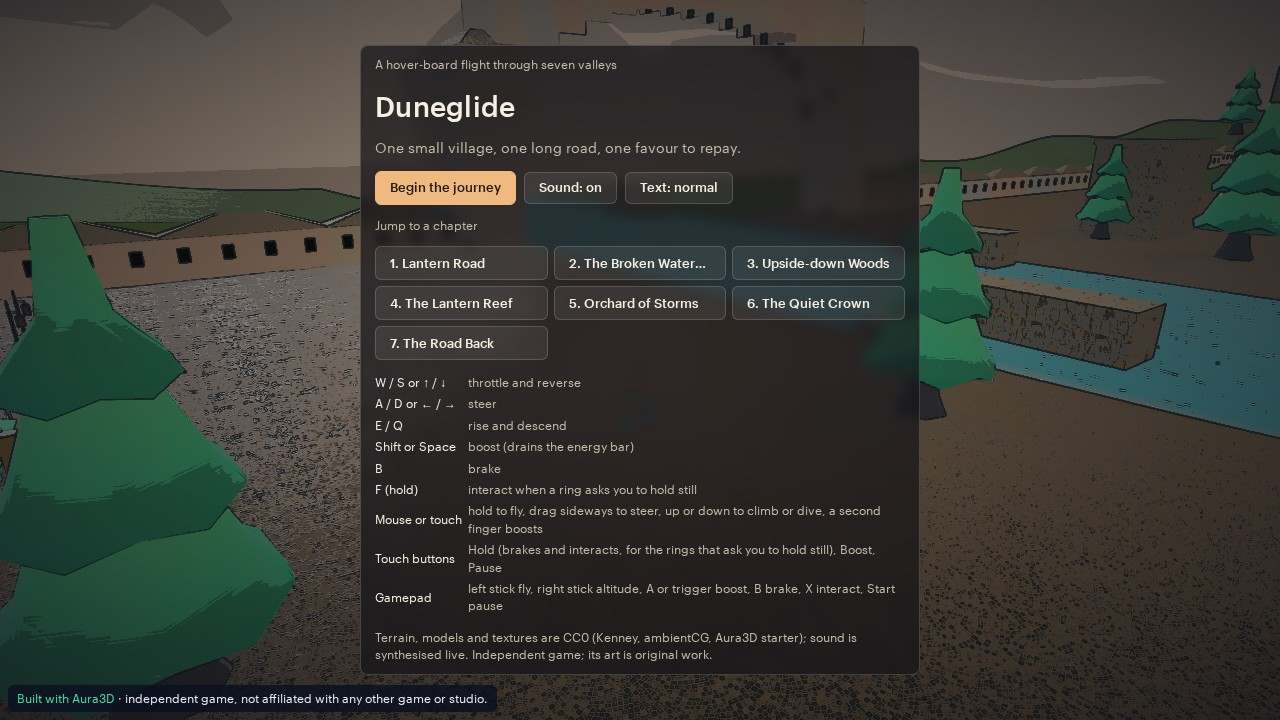
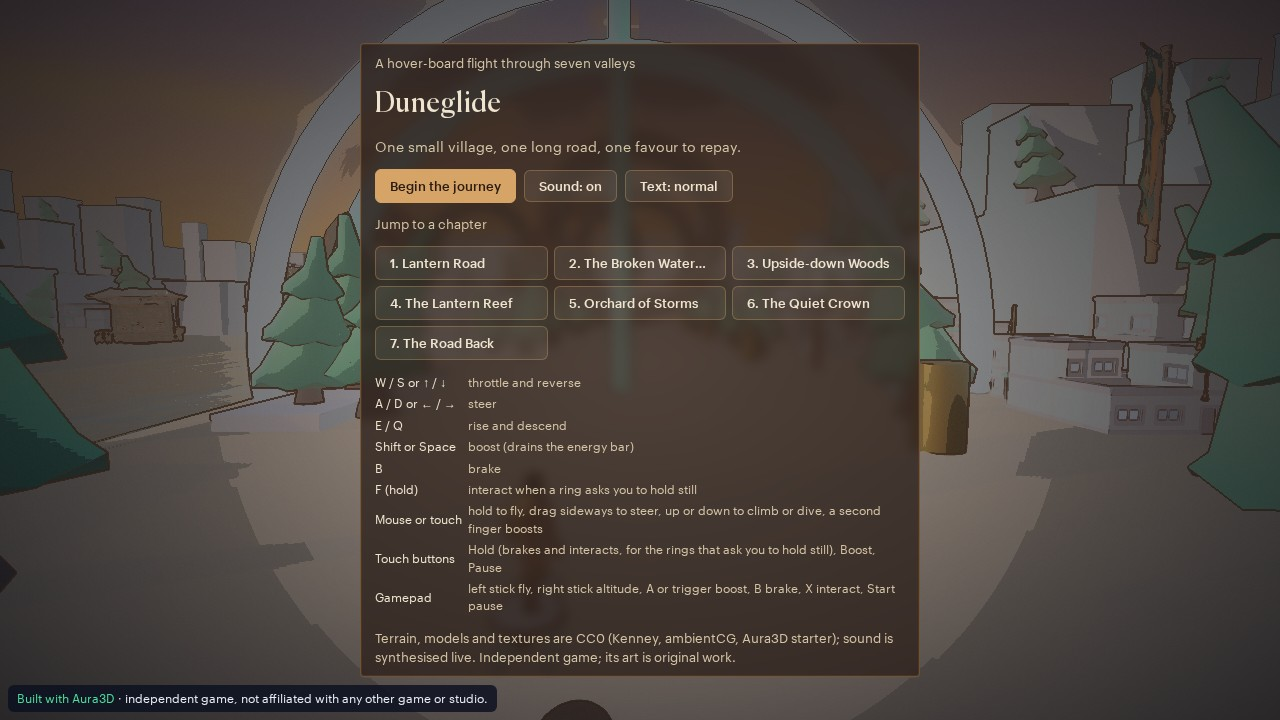
docs(silt-and-signal-port): phase 6 (4.7.4) lane report; title screens retaken with a lean g24-t test (one screenshot; g24-a timed out twice on software WebGL2), runs g24p6-r3 (GU47 g24)

diff --git a/tests/browser/audit-fix/silt-and-signal-port.spec.ts b/tests/browser/audit-fix/silt-and-signal-port.spec.ts
@@ -224,6 +224,26 @@ test.describe("g24 duneglide", () => {
     await ctx.close();
   });
 
+  /* ------------------------------------------------- g24-t: lean title frames (GU47 phase 6, one screenshot each) */
+  // The g24-a probe takes 10+ screenshots plus settle renders; on the software-GL runner every one costs a presented
+  // frame of the inked title (minutes each), so g24-a ran out of its hour twice (phase 3 and phase 6). g24-t waits for
+  // the title to load and settle on its own clock, then takes one full-page JPEG (HUD and title card included).
+  for (const [label, vp, file] of [
+    ["desktop", { width: 1280, height: 720 }, "title.1280x720"],
+    ["phone", { width: 390, height: 844, touch: true }, "title.390x844"]
+  ] as const) {
+    test(`g24-t title ${label}`, async ({ browser }) => {
+      const { ctx, page, ok } = await openPage(browser, `title-${label}`, at(""), vp);
+      if (ok) {
+        await page.waitForTimeout(90_000);
+        const full = await page.screenshot({ type: "jpeg", quality: 90, timeout: 1_800_000 });
+        meta(file, { kind: "shot", lean: true, diag: await diag(page).catch(() => null) });
+        chunked("G24_JPG", file, full);
+      }
+      await ctx.close();
+    });
+  }
+
   /* ---------------------------------------------------------------- g24-b: play states (RH-05, C4, C10, C13, C14) */
 
   for (const [label, w, h, touch] of [["desktop", 1280, 720, false], ["phone", 390, 844, true]] as const) {

diff --git a/docs/prds/game-upgrades-47/lanes/g24.md b/docs/prds/game-upgrades-47/lanes/g24.md
@@ -375,3 +375,81 @@ and all 30 rows are still blocked.
 - **A capture failed silently:** ACR runs can die mid-capture without a Playwright code (`p4-r4` default, ch0 and ch3).
   The rerun used the same image tag without a rebuild (`/tmp/g24p4-r4b`).
 - **No `arcade` genre:** `look judge` rejects `arcade`. Use `racing`.
+
+## Phase 6 (4.7.4)
+
+Commits `394fa7bbc` (ch1 and ch6 reworked and inked by default, round 1), `0d7476701` (luma exposure nudge, round 2,
+results screen), then the title-screen commit. Presentation only (PRD D8): no change to sim, physics, collision, scoring,
+input or reference replays. All captures ran on the remote runner (crmmeprodacr, serverless ACR Chromium, **software
+WebGL2**): `p6-r1/`, `p6-r2/` and `p6-r3/` in `evidence/game-upgrades-47/silt-and-signal-port/`.
+
+### Task 1: chapters 1 and 6 open in a new look that beats 4.6.2. Done.
+
+- `ORIGINAL_DEFAULT_CHAPTERS` is now empty (`art/look.ts`), so every chapter opens in the inked look. `?look=original`
+  still opts out everywhere (`look.test.ts`).
+- **ch1 white-hot noon:** in phase 2 it read as a beige-grey wash against the green 4.6.2 meadow. It is now a clear blue
+  noon over the green orchard grass set (`ground: "orchard"`, sky `#3f86cc` to `#cfe2ea`), with light blue-grey haze
+  (fog max opacity 0.35 to 0.2, dust 0.4 to 0.12) and pollen motes. Grade: exposure 0.99, contrast 1.18, saturation 1.16.
+- **ch6 rose dawn:** in phase 2 a pink haze washed out the trees and ground. It is now a gold horizon (`#f4b47e`) under a
+  blue zenith, with thin haze (fog max opacity 0.3 to 0.18, dust 0.3 to 0.15). Grade: exposure 0.94, contrast 1.2.
+- Both chapters gain the phase 3 and 4 inked work: the over-the-shoulder chase camera, the 4.3.0 shadow fit (tree
+  shadows on the ch1 meadow) and the sky-mirroring canal.
+
+| view | `g24p6r1a` (round 1) | `g24p6r2a` (final code) |
+|---|---|---|
+| ch1 | 3/0/0 | 3/0/0 |
+| ch6 | 3/0/0 | 3/0/0 |
+
+Verdicts: `panel-p6/g24p6r1a.json` and `panel-p6/g24p6r2a.json`. The reference is the game's 4.6.2 default frame (the
+4.6.2 set has no ch1 or ch6 frame).
+
+- **Luma (bands NOT widened):** round 1 missed by a few points (ch1 mean 147-149 < 150; ch6 139-142 > 135). Round 2
+  changed only exposure:
+  - ch1 settle-25s and settle-60s are both in band (166.8 and 151.0);
+  - ch6 settle-60s is in band (133.8), but settle-25s is still at 139.0 > 135.
+  - `luma-after.json` now carries the `p6-r2` ch1 and ch6 rows in place of the `ch1-original` and `ch6-original` rows.
+- **Budget (`budget.json` `phase6`, from capture GL_META):**
+  - ch1 draws go from 91 to 103 and triangles from 1.71M to 3.56M; ch6 draws go from 91 to 97 and triangles from 1.81M
+    to 3.73M.
+  - Draw calls stay under 140.
+  - Triangles are over the 1.2M budget, as are the original look and every inked chapter shipped in 4.7.2 (3.46-3.80M;
+    the counter includes the shadow-cascade passes).
+  - The budget is not raised. Open item: fewer caster triangles (terrain and tree LOD in the shadow pass).
+
+### Task 2: retake the title and results screens. Done.
+
+- **Results:** `results.1280x720` was retaken on the final code (run `g24p6-r2-results`, the `g24-d pause, mute and
+  journey` test). It shows the journey card over the new ch6 dawn: Time in flight 0:01, Lamps restored 9, Chapters 2 of
+  7, Impacts 0, Glass-smooth, the same as before (sim unchanged). A round 1 copy (`g24p6-r1-results`) was superseded.
+- **Title:** `title.1280x720` and `title.390x844` were retaken (runs `g24p6-r3-tdesk` and `g24p6-r3-tphone`). They show
+  the inked dusk plaza and the current HUD typography behind the title card. The old frames came from the 4.5.0 build.
+  - **Why it failed twice:** the `g24-a` title test takes 10+ screenshots (the PROBE-1 timeline, settle renders and
+    canvas-only shots). On software WebGL2, each one waits for a presented frame of the inked title, which takes
+    minutes. `g24-a` ran out of its hour in phase 3 (`g24p3-r3-6`) and again in phase 6 (`g24p6-r1-title`, test timeout
+    at the first probe screenshot).
+  - **Fix:** a new lean `g24-t title desktop|phone` test in the audit spec. It waits 90 s after ready, then takes one
+    full-page JPEG. It runs in about 5 minutes. `g24-a` is kept for real-GPU probing.
+- Installed in `evidence/silt-and-signal-port/screens/final/` (README updated), with copies in `p6-r2/screens` and
+  `p6-r3/screens`.
+
+### Game-checks
+
+`node tools/game-checks/run.mjs silt-and-signal-port`: **0 errors, 14 warnings** (4.7.2: 0 errors, 14 warnings).
+- ch1 and ch6 add one band miss: ch6 settle-25s mean 139.0 > 135.
+- The original-look ch1 and ch6 rows, with their texPending warnings, are gone from `luma-after.json`.
+- Every row still has texPending=1 (one lazy texture on the runner). The ch0, ch3 and ch4 settle-25s mean misses are
+  unchanged. Bands NOT widened.
+
+### Gates
+- `typecheck-delta --app apps/showcase-silt-and-signal-port`: NEW_ERRORS 0.
+- Unit `tests/unit/silt-and-signal-port`: all 15 files pass one at a time (159 tests; reference replays unchanged).
+  - `look.test.ts`: ch1 and ch6 now expect the inked look.
+  - The "bleached noon" saturation check is now "noon saturation > 1 on the orchard ground".
+- eslint on the touched files: 0 errors (the same pre-existing unused-disable warning in the audit spec).
+- game-checks: 0 errors.
+
+### Traps
+- **Clock change:** clocks fell back from PDT to PST during this run (02:00 PDT became 01:00 PST). Compare times in UTC.
+- **Title shards:** the scheduler cancels a shard after `--hang-min` without a GL_META line, and the G24 audit spec logs
+  `G24_META`, not GL_META. The cancel call also targets picassostagingacr, so a crmmeprodacr run keeps going and gets
+  marked `cancelled`. Use `--hang-min 70` for audit-spec shards and decode them with `/tmp/g24p3-tools/decode-g24.py`.

diff --git a/evidence/silt-and-signal-port/screens/final/README.md b/evidence/silt-and-signal-port/screens/final/README.md
@@ -22,3 +22,9 @@
 1. **Low:** the touch Pause label is wider than its 48 px button in `key-boost.390x844` (fixed in `4551fcb07`, after these frames).
 2. **Low:** the rider is small on a flat white disc with two cyan ovals in every frame.
 3. **Low:** on mobile the chapter buttons truncate long names ("2. The Broken Wat...").
+
+## GU47 phase 6 (4.7.4) retake
+
+`title.1280x720`, `title.390x844` (lean `g24-t` tests, runs `g24p6-r3-tdesk` and `g24p6-r3-tphone`) and `results.1280x720`
+(run `g24p6-r2-results`, the ch6 dawn behind the card) were retaken on the 4.7.4 build. Remote runner, software WebGL2.
+Copies are in `evidence/game-upgrades-47/silt-and-signal-port/p6-r2/screens` and `p6-r3/screens`.
